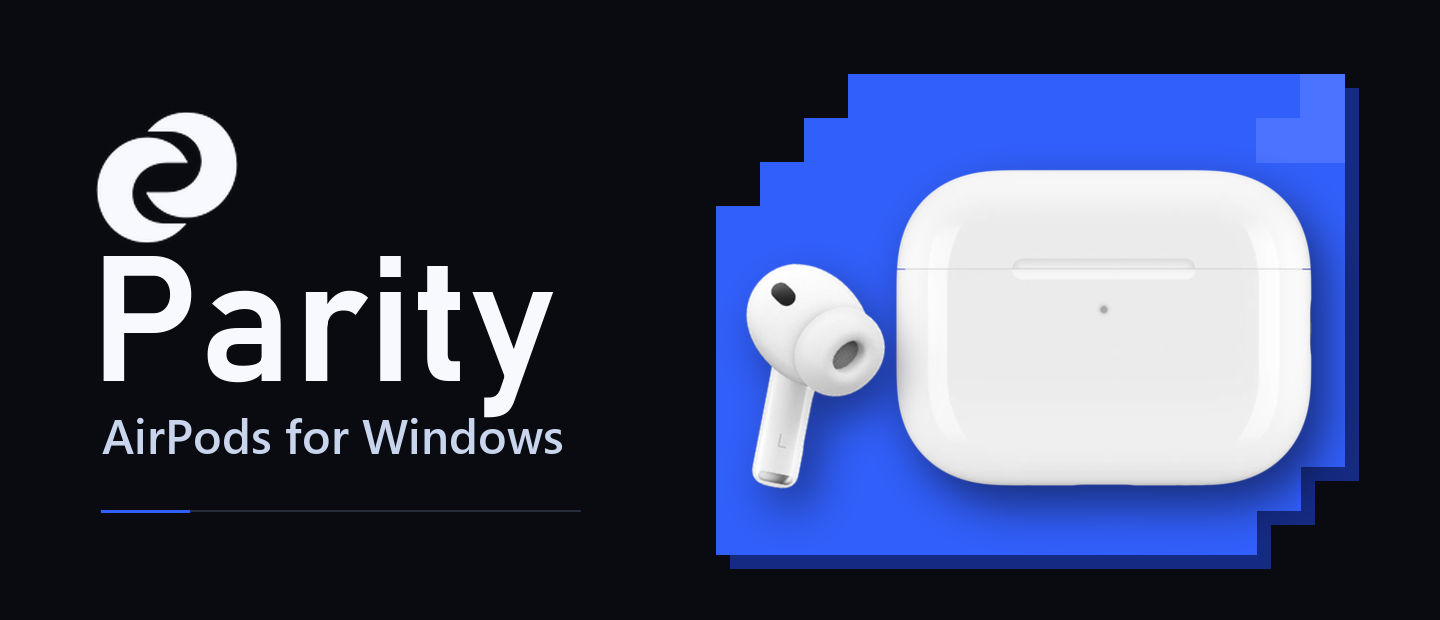
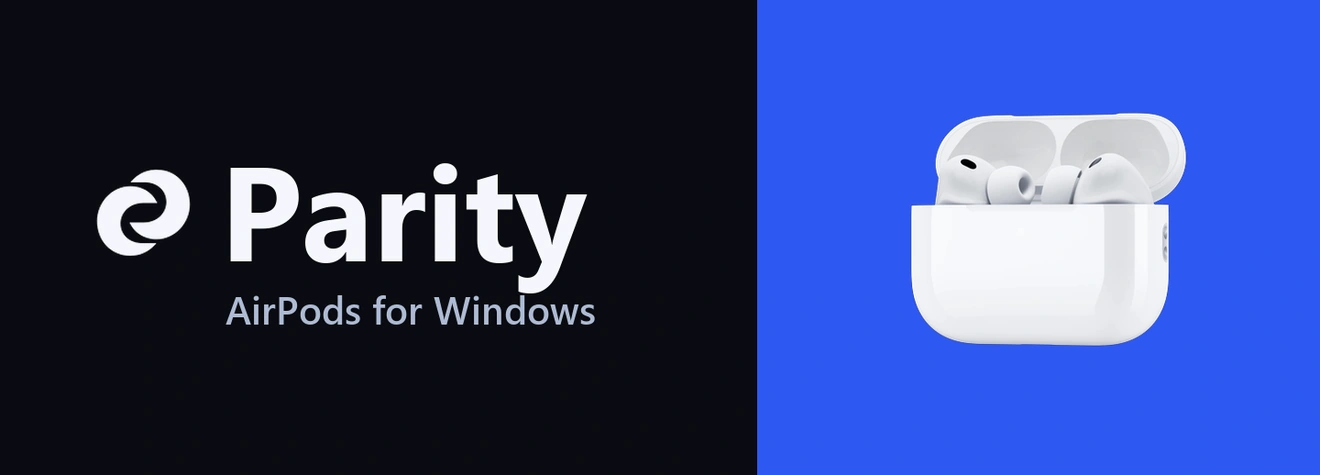
Use the open-case animation in the Parity cover

diff --git a/README.md b/README.md
@@ -1,4 +1,9 @@
-# ![Parity, AirPods for Windows](docs/media/parity-banner.webp)
+<h1>
+  <picture>
+    <source media="(prefers-reduced-motion: reduce)" srcset="docs/media/parity-banner.webp">
+    <img src="docs/media/parity-banner-motion.webp" alt="Parity, AirPods for Windows">
+  </picture>
+</h1>
 
 **Control your AirPods from the Windows tray.** Switch listening modes, see what’s charged, and pick up what you were playing. Open the full app for on-device EQ, head-tracked spatial audio, microphone setup, and live heart rate on AirPods Pro 3.
 
@@ -25,12 +30,7 @@ Control playback from Overview, including seeking when the player supports it, o
 
 **On-device EQ.** The Recommended setting lets the earbuds manage their own tuning. Switch to Custom on compatible firmware to adjust bass, midrange, and treble. Parity sends the changes to your AirPods so you can hear them while you adjust.
 
-**Spatial Audio on Windows.** Switch between Stereo, Fixed, and Head Tracked. Fixed places a virtual soundstage in front of you. Head Tracked uses AirPods motion to keep that stage anchored as you turn. The speaker view shows which way you’re facing, and Recenter sets forward again. Adjust the speaker angle and level or try a source in Sound Check.
-
-<picture>
-  <source media="(prefers-reduced-motion: reduce)" srcset="docs/media/sound-workspace.webp">
-  <img src="docs/media/sound-in-motion.webp" alt="Parity’s custom equalizer beside a short demonstration of the head-tracking diagram. The listener turns while the two speaker markers stay in place." width="940">
-</picture>
+**Spatial Audio on Windows.** Adjust the virtual speakers’ angle and level, see which way you’re facing, or use Recenter to set forward again.
 
 | Mode | What it does |
 | --- | --- |
@@ -46,15 +46,9 @@ Parity renders spatial audio on the PC. Live Windows playback needs a compatible
 
 **Get the stem and gestures right.** Pick the modes that press-and-hold cycles through, set press timing and tone volume, or bind keyboard shortcuts to actions you use from other apps. Practice nodding and shaking, adjust sensitivity, and assign each gesture to a shortcut such as play/pause or changing listening mode.
 
-![Parity’s Microphone and Controls workspaces showing a live input meter, microphone options, stem modes, and gesture settings.](docs/media/controls-workspace.webp)
-
 ## Pulse
 
 On AirPods Pro 3, start a recording to see your heart rate as it changes. Adjust the time window, check the session’s range and average, or open an earlier recording and inspect a specific part of it. An optional local feed supplies the latest reading to a streaming overlay or another app on the same PC.
-
-<p align="center">
-  <img src="docs/media/pulse-workspace.webp" width="475" alt="Parity Pulse with a live heart-rate graph, current BPM, and session statistics using example readings">
-</p>
 
 <details>
 <summary>Device and Windows settings</summary>
